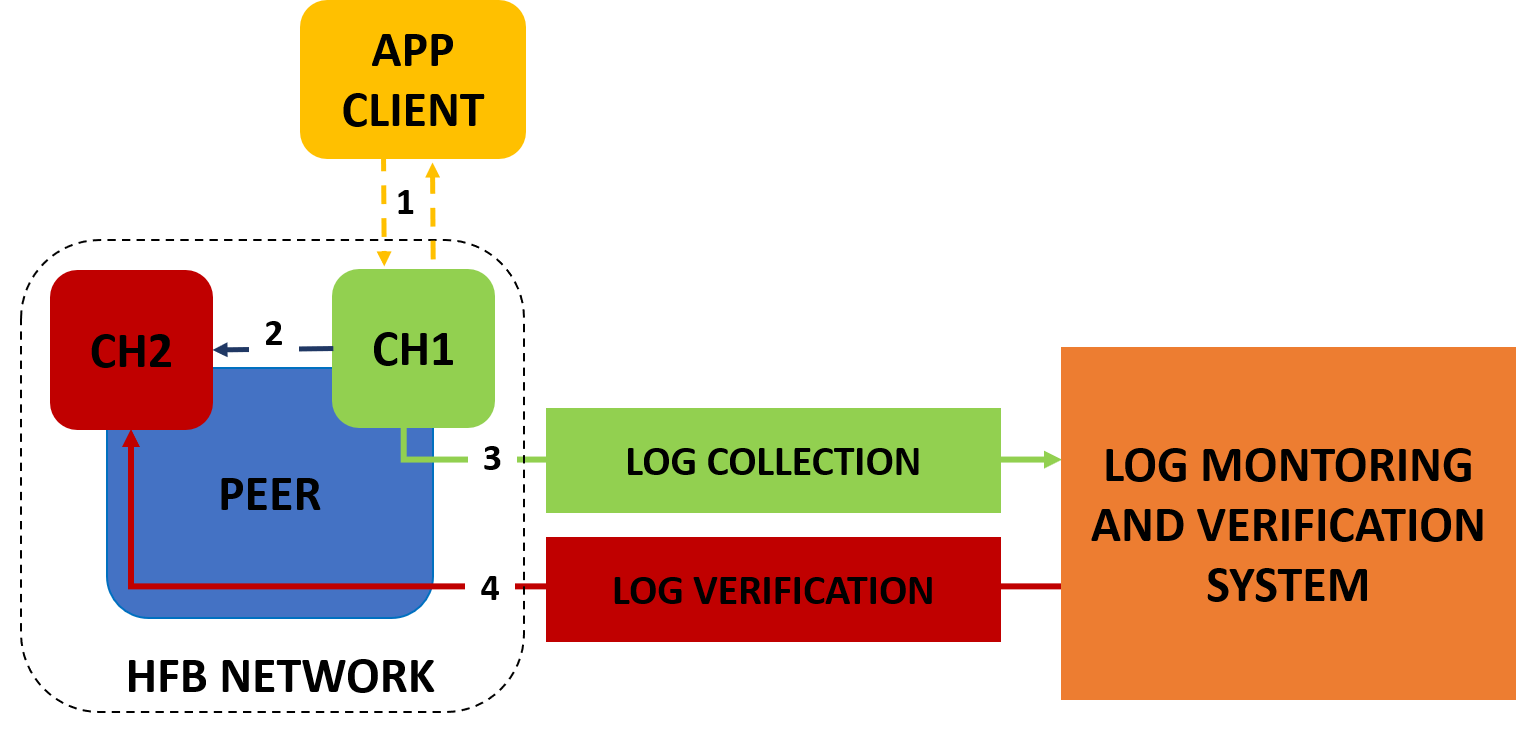
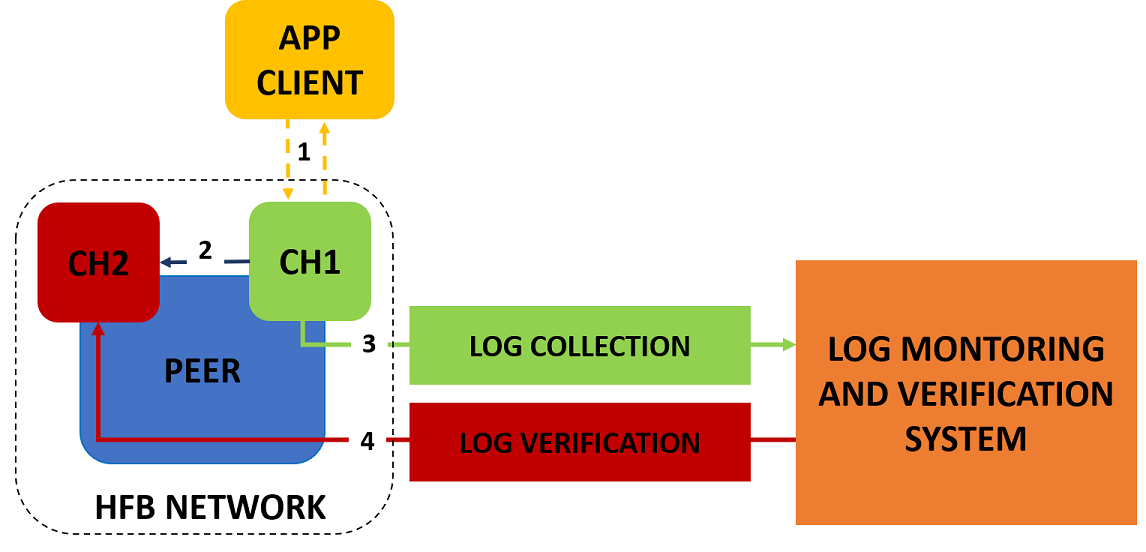
07.05.21

Changed region(s): [[0.7941, 0.7699, 0.8246, 0.8007], [0.733, 0.7083, 0.7635, 0.7391], [0.5803, 0.8007, 0.6108, 0.8315]]

diff --git a/README.md b/README.md
@@ -34,5 +34,6 @@ To Do:
  1. Deploy Hyperledger Explorer
  2. Deploy ELK infrastructure
  3. Include Python Script to verify each log
-![alt text](https://github.com/sfl0r3nz05/LogAuHFBCH/blob/main/img/System%20overview.png)
- 4. Include performance evaluation
+![alt text](https://github.com/sfl0r3nz05/LogAuHFBCH/blob/main/img/System%20overviewII.png)
+ 4. Include performance evaluation, e.g.:
+![alt text](https://github.com/sfl0r3nz05/LogAuHFBCH/blob/main/img/performance.png) 
